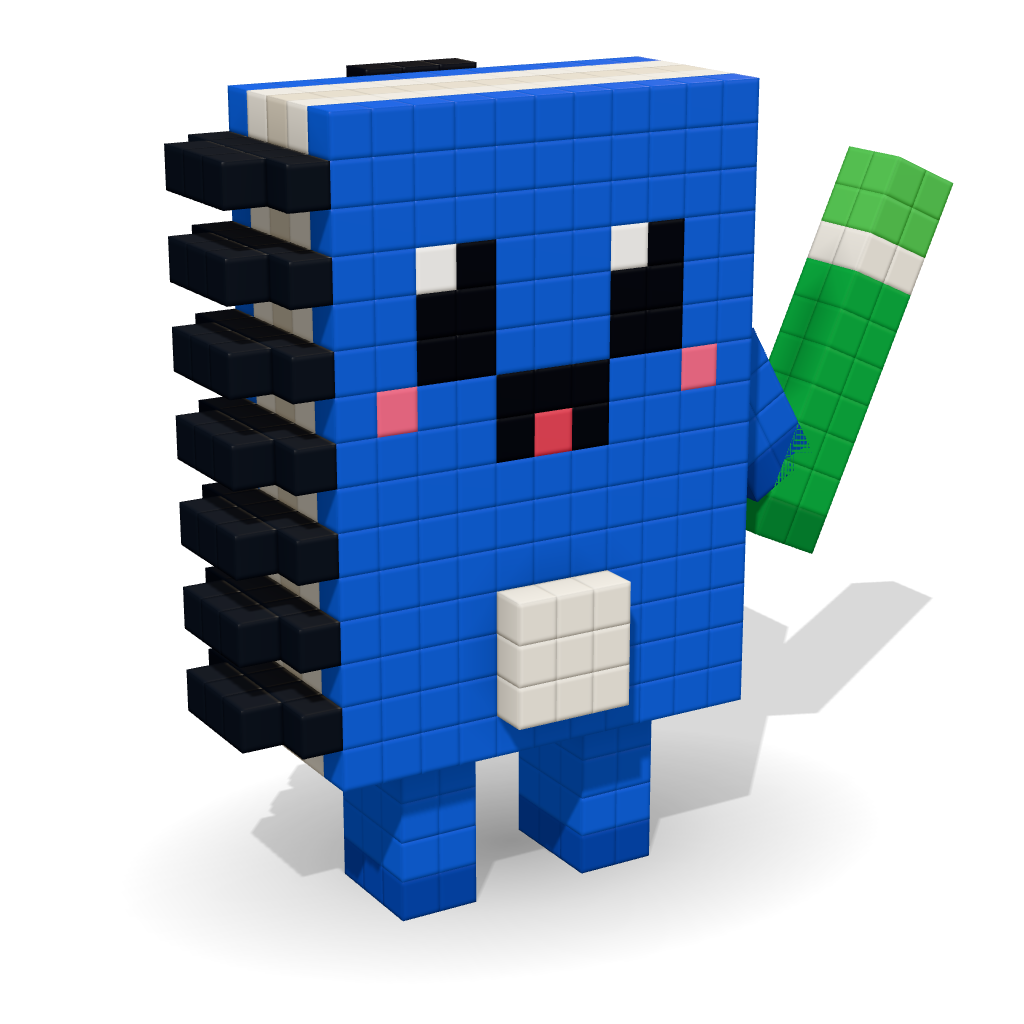
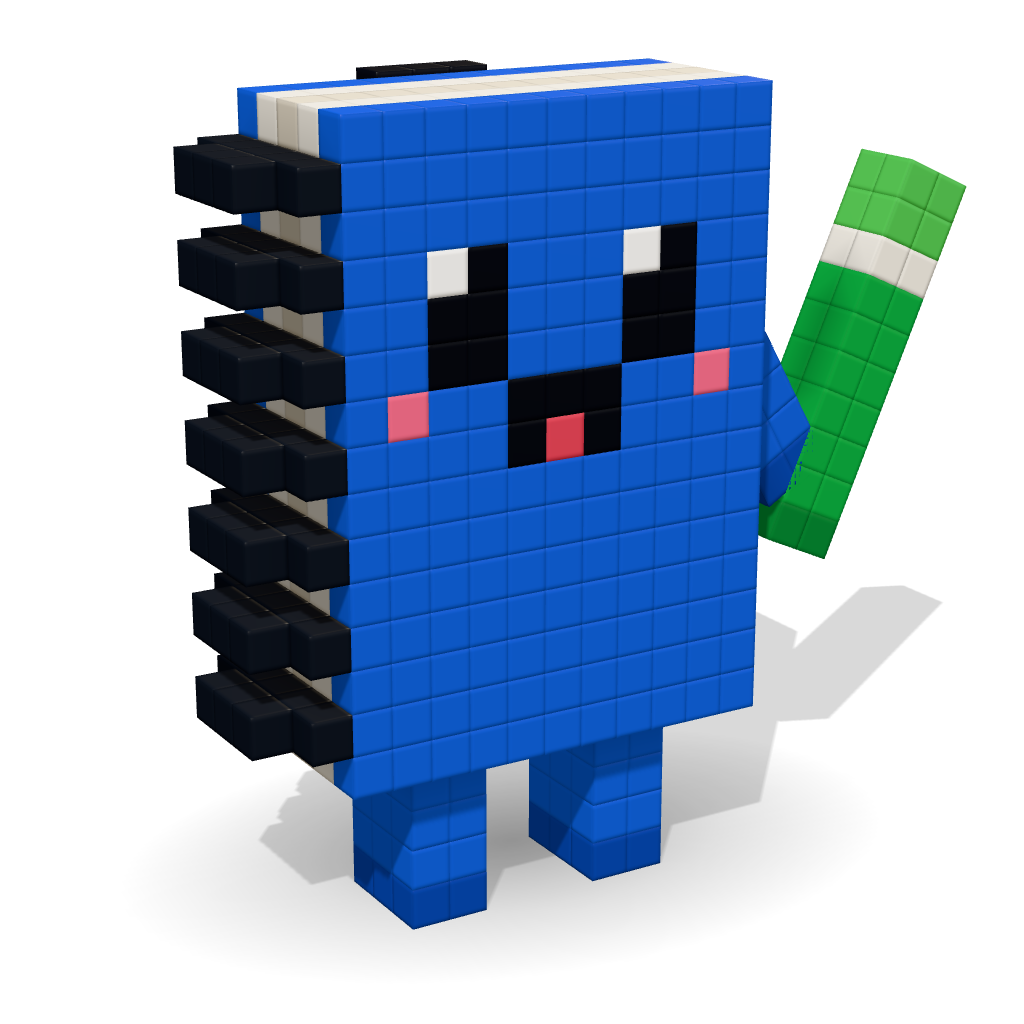
Retire a etiqueta branca da capa do Caderninho

diff --git a/assets/pets/especies.js b/assets/pets/especies.js
@@ -253,8 +253,6 @@ export const PETS = [
       par(m, OLHO_BRILHO, 2, 7, 15);
       par(m, ['B'], 1, 9, 12);
       m.desenhar(BOCA_PEQUENA, 4, 12, TINTAS);
-      // etiqueta branca, sem a logo
-      m.caixa(4, 5, 5, 6, 7, 5, C.branco);
       // braço com a caneta
       braco(m, 'D', { x: 11, yTopo: 12, comprimento: 4, z: 1, cor: C.azul, mao: C.azulEscuro, levantar: 1.4 });
       // caneta reta presa na mão; a inclinação vem da pose, para não virar escadinha

diff --git a/assets/pets/README.md b/assets/pets/README.md
@@ -121,8 +121,8 @@ mostrarParte(pet, 'mochila', false);               // acessórios podem ser esco
 ## Diferenças em relação à referência
 
 - **Mochila em todos:** a referência só mostra a mochila em alguns pets; aqui todos usam uma, com a logo
-  da OpenAI estampada nas costas. A logo também aparece na etiqueta do Caderninho e na base do
-  Laptopinho, como na referência.
+  da OpenAI estampada nas costas. A logo também aparece na base do Laptopinho, como na referência.
+- **Caderninho:** sem a etiqueta branca da capa.
 - **Texto:** "Oriativo" virou "Criativo".
 - **Nome:** a caneca se chama **Xícara**, como na referência dos pets. No mapa da aventura ela aparece
   como "Xícaro".
